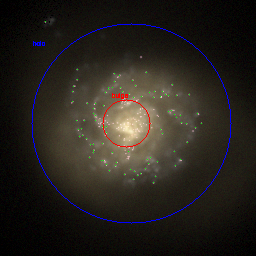
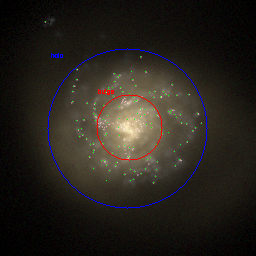
implemented sigma clipping sigma clip to identify backgorund abnormalities - star formation regions

diff --git a/galaxygraphsbin/sigmaclipping.py b/galaxygraphsbin/sigmaclipping.py
@@ -1,0 +1,170 @@
+import numpy as np
+import matplotlib.pyplot as plt
+from PIL import Image
+import cv2
+from imutils import contours
+from skimage import measure
+import imutils
+import math
+from scipy.optimize import curve_fit
+from lmfit import Model
+from astropy.stats import SigmaClip
+
+
+def sigmaclip(image, sigma, box_size):
+    median_background=np.median(image)
+    std_background=np.std(image)
+    print(median_background)
+    print(median_background)
+    gray = cv2.cvtColor(image, cv2.COLOR_BGR2GRAY)
+    print(gray.shape)
+    for i in np.arange(0,257, box_size):
+        for j in np.arange(0,257, box_size):
+            i=int(i)
+            j=int(j)
+            area=gray[i:i+box_size, j:j+box_size]
+            median=np.median(area)
+            std=np.std(area)
+            area[(area>(median + sigma*std)) & (area>(median_background+std_background))]=255
+            area[(area>(median + sigma*std)) & (area<(median_background+std_background))]=0
+            area[area<(median + sigma*std)]=0
+            gray[i:i+box_size, j:j+box_size]=area
+    return(gray)
+        
+
+
+def findcenter(image):
+	#finds coords of central bulge
+	gray = cv2.cvtColor(image, cv2.COLOR_BGR2GRAY)
+	gray = cv2.GaussianBlur(gray, (11,11), 0)
+	(minVal, maxVal, minLoc, maxLoc) = cv2.minMaxLoc(gray)
+	return maxVal, maxLoc
+
+
+def findandlabelbulge(image, imagefile):
+	#locates central bulge and diffuse halo, and marks this on the image
+	imagecopy=image.copy()
+	median=np.median(image)
+
+	std=np.std(image)
+	print(median)
+	print(std)
+	gray = cv2.cvtColor(image, cv2.COLOR_BGR2GRAY)
+	blurred1 = cv2.GaussianBlur(gray, ksize=(11, 11), sigmaX=3,sigmaY=3)
+	thresh1 = cv2.threshold(blurred1, median + 3*std, 255, cv2.THRESH_BINARY)[1]
+	thresh1 = cv2.erode(thresh1, None, iterations=2)
+	thresh1 = cv2.dilate(thresh1, None, iterations=4)
+
+	blurred2 = cv2.GaussianBlur(gray, ksize=(11, 11), sigmaX=3,sigmaY=3)
+	thresh2 = cv2.threshold(blurred2, median +std, 255, cv2.THRESH_BINARY)[1]
+	thresh2 = cv2.dilate(thresh2, None, iterations=4)
+
+	#blurred3 = cv2.GaussianBlur(gray, ksize=(11, 11), sigmaX=2,sigmaY=2)
+	#thresh3 = cv2.adaptiveThreshold(gray, 255, cv2.ADAPTIVE_THRESH_MEAN_C, cv2.THRESH_BINARY,61,0)
+	thresh3= sigmaclip(image,3,12)
+
+	cv2.imshow("thresh1", thresh1), cv2.waitKey(0)
+	cv2.imshow("thresh2", thresh2), cv2.waitKey(0)
+	cv2.imshow("thresh3", thresh3), cv2.waitKey(0)
+
+
+	#find bulge
+	# perform a connected component analysis on the thresholded
+	# image, then initialize a mask to store only the "large" components
+	labels1 = measure.label(thresh1, neighbors=8, background=0)
+	mask1 = np.zeros(thresh1.shape, dtype="uint8")
+	# loop over the unique components
+	for label in np.unique(labels1):
+		# if this is the background label, ignore it
+		if label == 0:
+			continue
+		# otherwise, construct the label mask and count the number of pixels 
+		labelMask = np.zeros(thresh1.shape, dtype="uint8")
+		labelMask[labels1 == label] = 255
+		numPixels = cv2.countNonZero(labelMask)
+		# if the number of pixels in the component is sufficiently large, then add it to our mask of "large blobs"
+		if numPixels > 20:
+			mask1 = cv2.add(mask1, labelMask)
+	# find the contours in the mask, then sort them from left to right
+	cnts = cv2.findContours(mask1.copy(), cv2.RETR_EXTERNAL, cv2.CHAIN_APPROX_SIMPLE)
+	cnts = imutils.grab_contours(cnts)
+	if len(cnts)>0:
+		cnts = contours.sort_contours(cnts)[0]
+	# loop over the contours
+	bradius, bcX,bcY=0,0,0
+	c=max(cnts, key=cv2.contourArea)
+	(x, y, w, h) = cv2.boundingRect(c)
+	((bcX, bcY), bradius) = cv2.minEnclosingCircle(c)
+	cv2.circle(imagecopy, (int(bcX), int(bcY)), int(bradius),(0, 0, 255), 1)
+	print("bulge radius:{},  bulge centre({},{})".format(bradius, bcX,bcY))
+	if numPixels > 20: 
+		cv2.putText(imagecopy, "bulge", (x, y - 2),
+			cv2.FONT_HERSHEY_SIMPLEX, 0.2, (0, 0, 255), 1)
+
+
+	#find halo
+	labels2 = measure.label(thresh2, neighbors=8, background=0)
+	mask2 = np.zeros(thresh2.shape, dtype="uint8")	
+	for label in np.unique(labels2):
+		if label == 0:
+			continue
+		labelMask = np.zeros(thresh2.shape, dtype="uint8")
+		labelMask[labels2 == label] = 255
+		numPixels = cv2.countNonZero(labelMask)
+		if numPixels > 20:
+			mask2 = cv2.add(mask2, labelMask)
+	cnts = cv2.findContours(mask2.copy(), cv2.RETR_EXTERNAL, cv2.CHAIN_APPROX_SIMPLE)
+	cnts = imutils.grab_contours(cnts)
+	if len(cnts)>0:
+		cnts = contours.sort_contours(cnts)[0]
+	hcX, hcY, hradius =0,0,0
+	c=max(cnts, key=cv2.contourArea)
+	(x, y, w, h) = cv2.boundingRect(c)
+	((hcX, hcY), hradius) = cv2.minEnclosingCircle(c)
+	cv2.circle(imagecopy, (int(hcX), int(hcY)), int(hradius),(255, 0, 0), 1)
+	print("halo radius:{}, halo centre({},{})".format(hradius, hcX,hcY))
+	if numPixels > 60: 
+		cv2.putText(imagecopy, "halo", (x, y - 5),
+			cv2.FONT_HERSHEY_SIMPLEX, 0.2, (255, 0, 0), 1)
+
+
+	
+	labels3 = measure.label(thresh3, neighbors=8, background=0)
+	mask3 = np.zeros(thresh3.shape, dtype="uint8")
+	for label in np.unique(labels3):
+		if label == 0:
+			continue
+		labelMask = np.zeros(thresh3.shape, dtype="uint8")
+		labelMask[labels3 == label] = 255
+		numPixels = cv2.countNonZero(labelMask)
+		if numPixels > 0:
+			mask3 = cv2.add(mask3, labelMask)
+	cnts = cv2.findContours(mask3.copy(), cv2.RETR_EXTERNAL, cv2.CHAIN_APPROX_SIMPLE)
+	cnts = imutils.grab_contours(cnts)
+	if len(cnts)>0:
+		cnts = contours.sort_contours(cnts)[0]
+	count=0
+	for (i, c) in enumerate(cnts):
+		if numPixels<10:
+			(x, y, w, h) = cv2.boundingRect(c)
+			cv2.drawContours(imagecopy, c, 0, (0,255,0),1)
+			count+=1
+	halotobulgeradius=hradius/bradius
+	print("halo radius:bulge radius ={}".format(halotobulgeradius))
+	print("star count ={}".format(count))
+	
+	
+	cv2.imshow("Image", imagecopy)
+	cv2.imwrite('galaxygraphsbinRecal/opencvfindbulge'+imagefile, imagecopy)
+	cv2.waitKey(0)
+
+
+
+if __name__ == "__main__":
+	imagefile='RecalL0025N0752galface_659536.png'
+	BGRimage=cv2.imread('galaxyimagebinRecal/'+imagefile)
+	RGBimage=cv2.cvtColor(BGRimage, cv2.COLOR_BGR2RGB)
+	image=plt.imread('galaxyimagebinRecal/'+imagefile, 0)
+	findandlabelbulge(BGRimage, imagefile)
+	
+	
